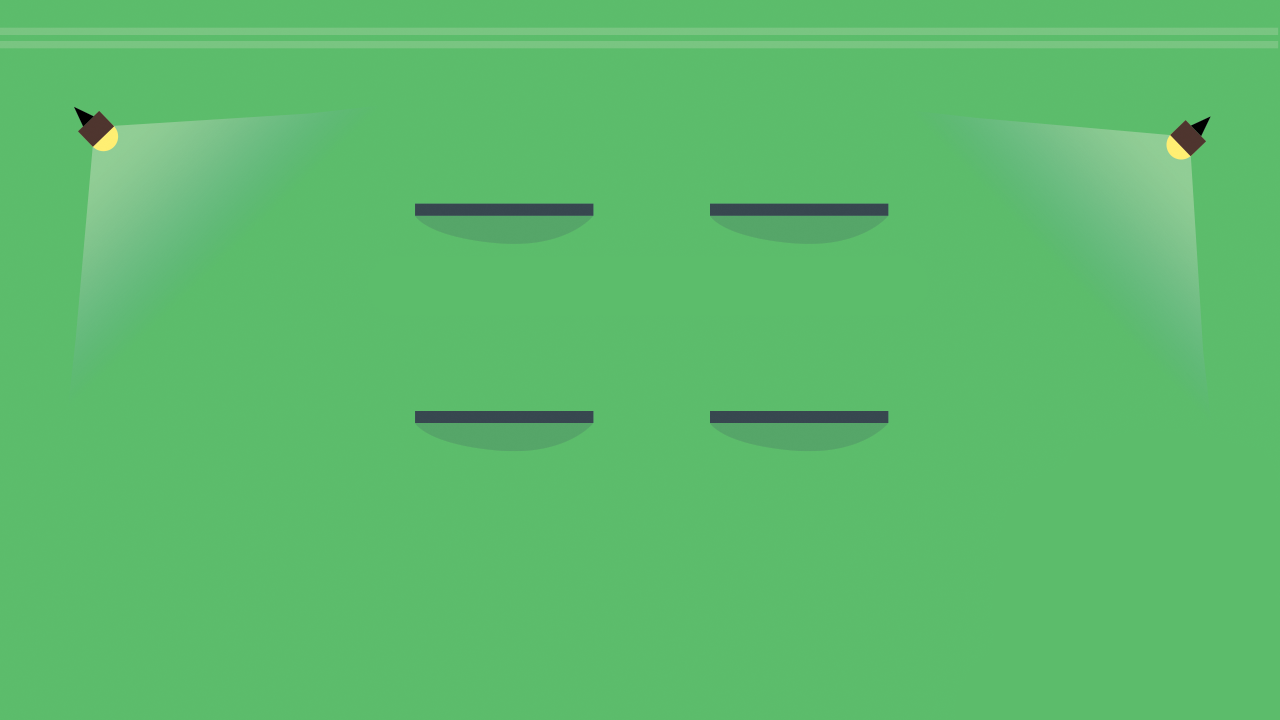
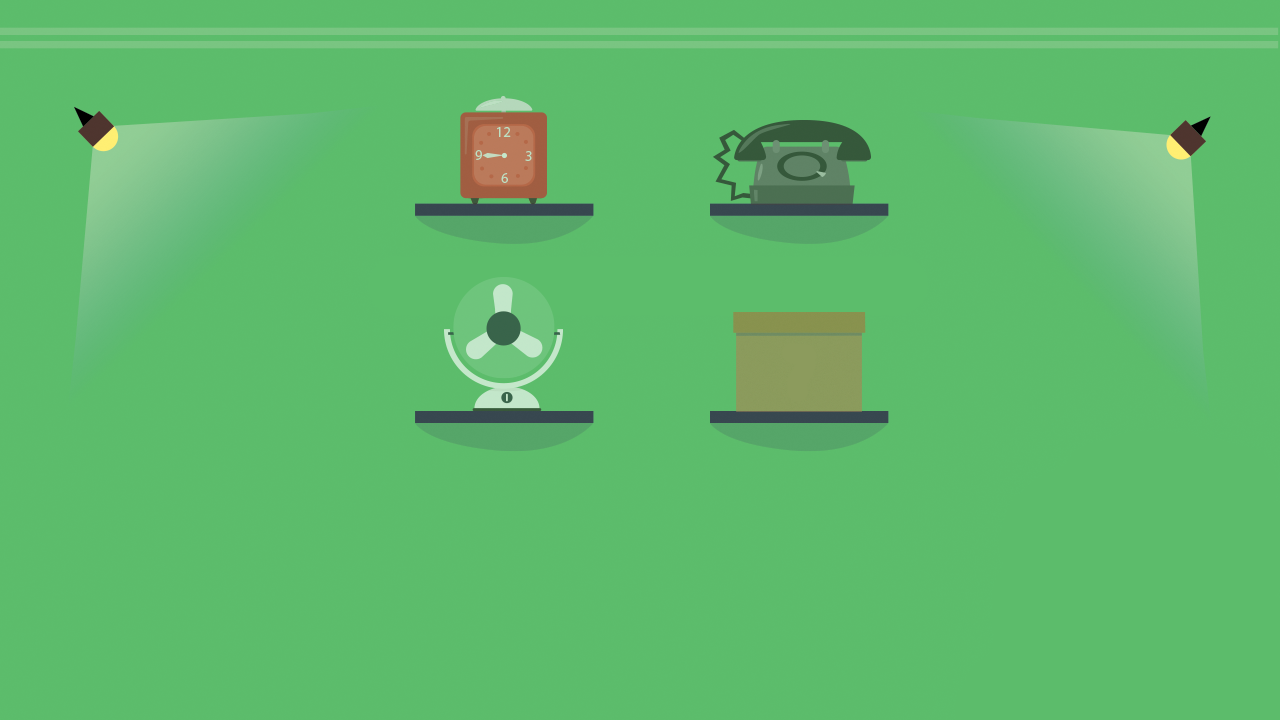
demo: Fix colorPref

diff --git a/demo/js/colorPref.js b/demo/js/colorPref.js
@@ -22,7 +22,7 @@
             },
             aisleAppear: {
                 funcName: "demo.state.colorPref.aisleAppear",
-                args: "{that}"
+                args: ["{that}", "{demo.discoveryCat}.prefModel.model"]
             },
             aisleScreenAppear: {
                 funcName: "demo.state.colorPref.aisleScreenAppear",
@@ -38,10 +38,6 @@
             },
             goButtonCallback: {
                 funcName: "demo.state.colorPref.goButtonCallback",
-                args: ["{that}", "{demo.discoveryCat}.prefModel.model"]
-            },
-            passcodeCallback: {
-                funcName: "demo.state.colorPref.passcodeCallback",
                 args: ["{that}", "{demo.discoveryCat}.prefModel.model"]
             },
             contrastFilter: {
@@ -72,50 +68,103 @@
             stateEnterAnimation: {
                 funcName: "demo.state.prelude.stateEnterAnimation",
                 args: ["{that}", 1070, 570]
+            },
+            backpack: {
+                funcName: "demo.state.house.backpack",
+                args: ["{that}", "{demo.discoveryCat}.textToSpeech",
+                                    "{demo.discoveryCat}.prefModel.model", "colorPref"]
+            },
+            gainFocusAnimation: {
+                funcName: "demo.state.colorPref.gainFocusAnimation",
+                args: ["{that}", 535, 190]
+            },
+            passcodeFound: {
+                funcName: "demo.state.sizePref.passcodeFound",
+                args: ["{that}", "{demo.discoveryCat}.prefModel.model"]
+            },
+            inactionFeedback: {
+                funcName: "demo.state.colorPref.inactionFeedback",
+                args: ["{that}", "{demo.discoveryCat}.prefModel.model"]
+            },
+            messageBarInstruction: {
+                funcName: "demo.state.house.messageBar",
+                args: ["{that}", "{demo.discoveryCat}.textToSpeech",
+                    "{demo.discoveryCat}.prefModel.model",
+                    "{demo.discoveryCat}.prefModel.model.lang.obj.colorPrefInstruction", 8000, 615]
             }
         }
     });
 
-    demo.state.colorPref.passcodeCallback = function(that, model) {
-        that.popup = that.add.sprite(640, 500, "popupAll", 1);
-        that.popup.anchor.setTo(0.5, 1);
-        that.popup.scale.setTo(model.size, model.size);
-        that.letterText = that.add.text(0, -120, "****\nCE",
-                                                { font: "100px Arial", fill: "#fff" });
-        that.letterText.anchor.setTo(0.5, 1);
-        that.letterText.scale.setTo(model.size, model.size);
-        that.popup.addChild(that.letterText);
-        that.add.tween(that.popup).to({ alpha: 0 }, 4000, Phaser.Easing.Sinusoidal.InOut, true);
+    demo.state.colorPref.inactionFeedback = function(that, model) {
+        if (model.contrast) {
+            var obj = that.bucketContrast;
+        } else {
+            var obj = that.bucketColor;
+        }
+
+        that.t1 = that.add.tween(obj).to({ x: 986, y: obj.y }, 100,
+            Phaser.Easing.Sinusoidal.InOut, false, 0).to({ x: 974, y: obj.y }, 200,
+            Phaser.Easing.Sinusoidal.InOut, false, 0).to({ x: 980, y: obj.y }, 100,
+            Phaser.Easing.Sinusoidal.InOut, false, 0);
+        that.t1.start();
     };
 
+    demo.state.colorPref.gainFocusAnimation = function(that, x, y) {
+        that.circle = that.add.graphics(x, y);
+        that.circle.lineStyle(10, 0xffd900, 1);
+        that.focus = that.circle.drawCircle(0, 0, 200);
+        that.focus.scale.setTo(10, 10);
+        that.t2 = that.add.tween(that.focus.scale).to({ x: 1, y: 1 }, 1000,
+            Phaser.Easing.Sinusoidal.InOut, false, 0).to({ x: 2, y: 2 }, 500,
+            Phaser.Easing.Sinusoidal.InOut, false, 0).to({ x: 1, y: 1 }, 500,
+            Phaser.Easing.Sinusoidal.InOut, false, 0);
+        that.t2.start();
+    };
+
+
     demo.state.colorPref.contrastBucketCallback = function(that, model) {
-        that.itemsAppear();
         // This saves the filter from being applied again and again on multiple clicks
         if (!model.contrast) {
             that.contrastFilter();
         }
+        if (model.contrast) {
+            that.inactionFeedback();
+        }
         model.contrast = true;
-        model.visited.color = true;
     };
 
     demo.state.colorPref.colorBucketCallback = function(that, model) {
-        model.contrast = false;
-        model.visited.color = true;
-        that.itemsAppear();
         // To remove filters from the game world
         if (!(that.world.filters === undefined)) {
             that.world.filters = null;
         }
+        if (!model.contrast) {
+            that.inactionFeedback();
+        }
+        model.contrast = false;
     };
 
-    demo.state.colorPref.goButtonCallback = function(that) {
+    demo.state.colorPref.goButtonCallback = function(that, model) {
         // Group these together
-        that.popupScreen.visible = false;
         that.bucketContrast.visible = false;
         that.bucketColor.visible = false;
         that.goButton.visible = false;
         // So that it can again reappear and surely this will create a new instant
-        that.aisleScreenAppearBool = false;
+        if (!model.passcodeCollected.color) {
+            that.gainFocusAnimation();
+            that.time.events.add(4000, function() {
+                that.popupScreen.visible = false;
+                that.aisleScreenAppearBool = false;
+                that.circle.visible = false;
+                that.passcodeText.visible = false;
+                that.passcodeFound();
+            }, that);
+            model.passcodeCollected.color = true;
+        } else {
+            that.popupScreen.visible = false;
+            that.aisleScreenAppearBool = false;
+            that.passcodeText.visible = false;
+        }
     };
 
     demo.state.colorPref.houseDoorFunc = function(that) {
@@ -126,27 +175,30 @@
     demo.state.colorPref.aisleScreenAppear = function(that, model) {
         if (that.aisleScreenAppearBool === false) {
             that.popupScreen = that.add.sprite(0, 0, "popupScreencp");
-            that.bucketColor = that.add.button(1100, 250, "upDownButtonsp",
+            that.passcodeText = that.add.text(465, 130, "******\n  AC",
+                                                    { font: "60px Arial", fill: "#000" });
+            that.bucketColor = that.add.button(980, 170, "upDownButtonsp",
                                                     that.colorBucketCallback, that, 19, 17, 17);
-            that.bucketColor.anchor.setTo(0.5, 1);
-            that.bucketColor.scale.setTo(model.size, model.size);
-
-            that.bucketContrast = that.add.button(1100, 450, "upDownButtonsp",
+            that.bucketContrast = that.add.button(980, 400, "upDownButtonsp",
                                                     that.contrastBucketCallback, that, 20, 18, 18);
-            that.bucketContrast.anchor.setTo(0.5, 1);
-            that.bucketContrast.scale.setTo(model.size, model.size);
-            that.goButton = that.add.button(1030, 500, "goButtonsp",
+            that.goButton = that.add.button(1120, 332, "goButtonsp",
                                                 that.goButtonCallback, that, 1, 0, 2);
             that.aisleScreenAppearBool = true;
+
+            if (model.passcodeCollected.color === false) {
+                that.messageBarInstruction();
+            }
         }
     };
 
-    demo.state.colorPref.aisleAppear = function(that) {
+    demo.state.colorPref.aisleAppear = function(that, model) {
         // Pick up paint brush
         that.paintBrush.visible = false;
         that.paintBrush.body.enable = false;
         that.aisle.body.enable = true;
         that.aisle.visible = true;
+        // When picked up the brush
+        model.visited.color = true;
     };
 
     demo.state.colorPref.contrastFilter = function(that) {
@@ -179,21 +231,29 @@
         // Audio play
         that.audioC.play("", 0, 0.1, true);
 
-        // Environment
-        that.add.sprite(0, 0, "backgroundcp");
+        that.stage.backgroundColor = "#5cbd6c";
 
-        that.paintBrush = that.add.sprite(1070, 570, "extraAssetcp", 1);
-        that.paintBrush.anchor.setTo(0.5, 0.5);
+        // Ensuring simplify Pref
+        if (!model.simplify) {
+            that.background = that.add.sprite(0, 0, "backgroundcp");
+        }
+
+        // Ensuring color Pref
+        if (model.contrast) {
+            that.contrastFilter();
+        }
+
+
+        that.paintBrush = that.add.sprite(1070, 670, "extraAssetcp", 1);
+        that.paintBrush.anchor.setTo(0.5, 1);
+        that.paintBrush.scale.setTo(model.size, model.size);
         that.physics.arcade.enable(that.paintBrush);
         that.paintBrush.body.immovable = true;
 
-        that.add.sprite(360, 37, "extraAssetcp2", 0);
-        that.add.sprite(620, 36, "extraAssetcp2", 2);
-        that.add.sprite(370, 243, "extraAssetcp2", 4);
-        that.add.sprite(635, 245, "extraAssetcp2", 6);
-
         // Adding door to house and physics
-        that.houseDoor = that.add.sprite(40, 520, "doorh", 1);
+        that.houseDoor = that.add.sprite(135, 678, "doorh", 1);
+        that.houseDoor.anchor.setTo(0.5, 1);
+        that.houseDoor.scale.setTo(model.size, model.size);
         that.physics.arcade.enable(that.houseDoor);
         that.houseDoor.body.immovable = true;
 
@@ -203,8 +263,8 @@
         that.ground.body.immovable = true;
 
         // Aisle
-        that.aisle = that.add.sprite(430, 560, "extraAssetcp", 6);
-        that.aisle.anchor.setTo(0.5, 0.5);
+        that.aisle = that.add.sprite(430, 675, "extraAssetcp", 6);
+        that.aisle.anchor.setTo(0.5, 1);
         that.aisle.scale.setTo(model.size, model.size);
         that.physics.arcade.enable(that.aisle);
         that.aisle.body.enable = false;
@@ -244,20 +304,13 @@
         that.aisleNotif.scale.setTo(model.size, model.size);
         that.aisleNotif.alpha = 0;
 
-        // Check for room setting on revisitin the room
-        if (model.visited.color && model.contrast) {
-            that.paintBrush.visible = false;
-            that.paintBrush.body.enable = false;
-            that.contrastBucketCallback();
-        }
-        if (model.visited.color && !model.contrast) {
-            that.paintBrush.visible = false;
-            that.paintBrush.body.enable = false;
-            that.colorBucketCallback();
+        if (model.visited.color) {
+            that.aisleAppear();
         }
 
         that.stateEnterAnimation();
 
+        that.backpack();
     };
 
     demo.state.colorPref.update = function(that) {

diff --git a/demo/js/house.js b/demo/js/house.js
@@ -273,89 +273,6 @@
         that.backpackButton = that.add.sprite(70, 784, "backpackButtonAll", 0);
         that.backpackButton.anchor.setTo(0.5, 0.5);
         that.backpackButton.scale.setTo(0.8, 0.8);
-
-        // <-- INCOMPLETE KEYBOARD IMPLEMENTATION -->
-        //  // Actions to be performed on pressing TAB
-        //  that.changeSelection = function(that) {
-        //      // For tab to work
-        //      // For shift+tab to work
-        //      // that.count starts as 0
-        //      if (that.key1.shiftKey) {
-        //          // for backward movement
-        //          // This will make 0 to become -1
-        //          that.count--;
-        //      } else {
-        //          // for forward movement
-        //          // This will make 0 to become 1
-        //          that.count++;
-        //      }
-        //      // After passing this that.count will be either 1 or -1 in the first pass
-        //      // On tabing that.count++ makes count 5, that is next to last button
-        //      // we redirect it to the first button ie that.count = 1
-        //      if (that.count === 5) {
-        //          that.count = 1;
-        //      }
-        //      // On shift+tabing that.count-- makes count 0, at that time to jump to the
-        //      // last selection that.count is made 4.
-        //      if (that.count === 0) {
-        //          that.count = 4;
-        //      }
-        //      switch (that.count) {
-        //          case 1:
-        //              // Fix the over, out, in states of last button
-        //              that.button4.setFrames(3, 0, 2);
-        //              // Change the over, out, in states of this button
-        //              that.button1.setFrames(0, 1, 2);
-        //              // For Speech
-        //              that.button2.setFrames(3, 0, 2);
-        //              that.messageSpeechEn();
-        //              break;
-        //          case 2:
-        //              that.button1.setFrames(3, 0, 2);
-        //              that.button2.setFrames(0, 1, 2);
-        //              that.button3.setFrames(3, 0, 2);
-        //              that.messageSpeechEs();
-        //              break;
-        //          case 3:
-        //              that.button2.setFrames(3, 0, 2);
-        //              that.button3.setFrames(0, 1, 2);
-        //              that.button4.setFrames(3, 0, 2);
-        //              that.messageSpeechFr();
-        //              break;
-        //          case 4:
-        //              that.button3.setFrames(3, 0, 2);
-        //              that.button4.setFrames(0, 1, 2);
-        //              that.button1.setFrames(3, 0, 2);
-        //              that.messageSpeechDe();
-        //              break;
-        //          default:
-        //      }
-        //  };
-        //  // Actions to be performed on pressing ENTER
-        // that.acceptSelection = function(that) {
-        //        switch (that.count) {
-        //          case 1:
-        //              that.button1Callback();
-        //              break;
-        //          case 2:
-        //              that.button2Callback();
-        //              break;
-        //          case 3:
-        //              that.button3Callback();
-        //              break;
-        //          case 4:
-        //              that.button4Callback();
-        //              break;
-        //          default:
-        //              // Remember for default to put something
-        //      }
-        //  };
-        //  // Tab support
-        //  // Keyboard controls for changing and accepting selections
-        //  that.key1 = that.input.keyboard.addKey(Phaser.Keyboard.TAB);
-        //  that.key1.onDown.add(that.changeSelection, that);
-        //  that.key2 = that.input.keyboard.addKey(Phaser.Keyboard.SPACEBAR);
-        //  that.key2.onDown.add(that.acceptSelection, that);
     };
 
     demo.state.house.messageBar = function(that, speechComp, model, message, time, y) {

diff --git a/demo/js/Preload.js b/demo/js/Preload.js
@@ -70,7 +70,6 @@
         game.load.image("backgroundcp", "assets/background-colorPref.png");
         game.load.image("popupScreencp", "assets/popupScreen-colorPref.png");
         game.load.spritesheet("extraAssetcp", "assets/extraAssets-colorPref.png", 200, 233);
-        game.load.spritesheet("extraAssetcp2", "assets/extraAssets2-colorPref.png", 300, 169);
         // simplifyPref assets
         game.load.image("assetsip", "assets/assets-simplifyPref.png");
         game.load.image("popupScreensip", "assets/popupScreen-simplifyPref.png");
@@ -110,7 +109,7 @@
     };
 
     demo.state.Preload.create = function(game) {
-        game.state.start("sizePref");
+        game.state.start("colorPref");
     };
 
     demo.state.Preload.update = function() {

diff --git a/demo/js/sizePref.js b/demo/js/sizePref.js
@@ -291,10 +291,6 @@
         // letter above cat.
         that.smallEnvelopeAppear();
 
-        if (model.visited.size === true) {
-            that.takeSpects();
-        }
-
         // This envelopeScreenAppearBool is present to ensure that envelopeappear callback
         // from update is called only once.
         that.envelopeScreenAppearBool = false;
@@ -330,6 +326,11 @@
         that.envelopeNotif.addChild(that.add.text(10, 25, model.lang.obj.useItem));
         that.envelopeNotif.scale.setTo(model.size, model.size);
         that.envelopeNotif.alpha = 0;
+
+        // Revisiting room scenerio
+        if (model.visited.size) {
+            that.takeSpects();
+        }
 
         that.backpack();
 

diff --git a/demo/js/prefModel.js b/demo/js/prefModel.js
@@ -14,7 +14,7 @@
             sound: false,
             visited: {
                 sound: false,
-                size: false,
+                size: true,
                 color: false,
                 simplify: false,
                 house: false
